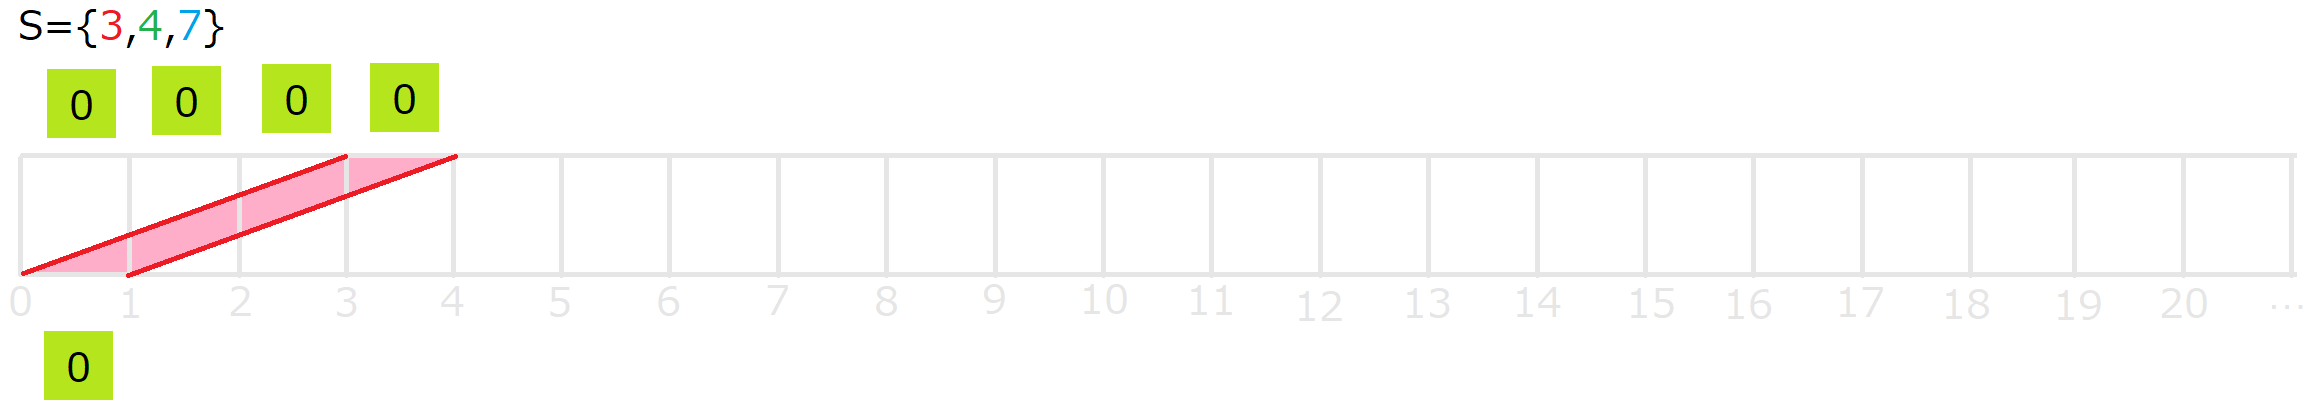
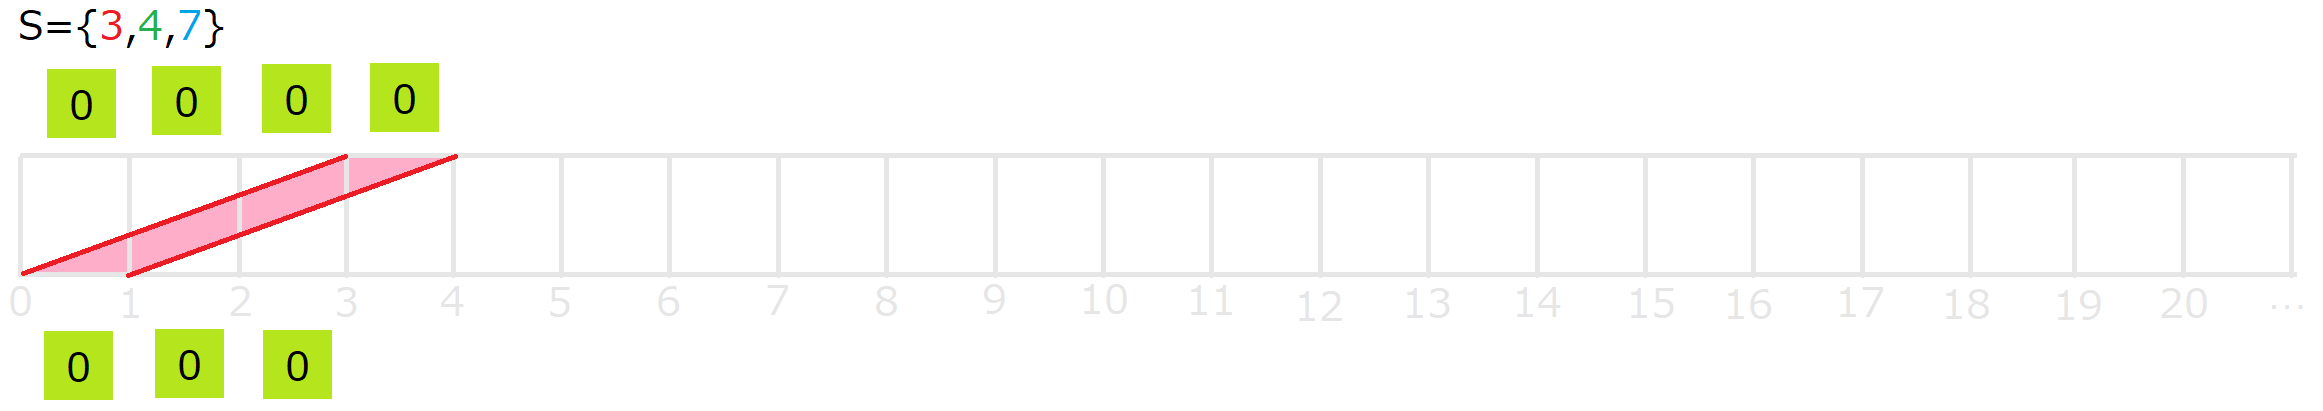
grid

Changed region(s): [[0.062, 0.7883, 0.155, 0.9927]]

diff --git a/me/ideas/drawing_mex_for_blog/s_a_b_c_image_gen.py b/me/ideas/drawing_mex_for_blog/s_a_b_c_image_gen.py
@@ -1,0 +1,357 @@
+import cv2
+import numpy as np
+# from datetime import datetime
+from kernel.math.grundy_sequence import GrundySequence
+
+
+def gen_s_a_b_c_image(a, b, c, len_Nz, zoom=1.0, suffix="", is_temporary=True):
+    """
+    Parameters
+    ----------
+    zoom : float
+        描画倍率
+    """
+
+    margin_left = 5
+    margin_right = 5
+    margin_top = 5
+    margin_bottom = 5
+
+    grid_width = 50
+    grid_height = 32
+    grid_columns = 21
+    grid_rows = 15
+    char_base_y = int(grid_height*0.9)
+    """一文字の幅の目安"""
+
+    grundy_sequence = GrundySequence.make(S={a, b, c}, len_N=len_Nz-1)
+    """グランディ数列"""
+
+    image_width = int(
+        (len_Nz * grid_width + margin_left + margin_right) * zoom)
+    image_height = int(grid_height*16*zoom)
+
+    # 画像データは数値の配列
+    monochrome_color = 240  # 0黒→255白
+    canvas = np.full((image_height, image_width, 3),
+                     monochrome_color, dtype=np.uint8)
+
+    font_color = (55, 55, 55)
+    color_red = (90, 90, 220)
+    color_green = (90, 220, 90)
+    color_blue = (220, 90, 90)
+    color_yellow_green = (153, 220, 192)
+    color_cyan = (220, 220, 192)
+    color_magenta = (220, 192, 220)
+    color_yellow = (192, 220, 220)
+    color_light_grey = (220, 220, 220)
+    """色"""
+
+    line_thickness = 1
+    """線の太さ"""
+
+    if a % 2 == 0:
+        eo_a = "E"
+    else:
+        eo_a = "o"
+
+    if b % 2 == 0:
+        eo_b = "E"
+    else:
+        eo_b = "o"
+
+    if c % 2 == 0:
+        eo_c = "E"
+    else:
+        eo_c = "o"
+
+    eo_code = f"{eo_a}{eo_b}{eo_c}"
+    """偶奇も付けたい。文字が潰れると見分けにくいので e の方を大文字にした"""
+
+    top_a_board = [-1] * len_Nz
+    top_b_board = [-1] * len_Nz
+    top_c_board = [-1] * len_Nz
+    """番地の上側に置いてある数"""
+
+    mate_lines = []
+    """mate線"""
+
+    # 駒の配置 と mate線 の算出
+    for top_n in range(0, len_Nz):
+        bottom_a = top_n-a
+        bottom_b = top_n-b
+        bottom_c = top_n-c
+        if 0 <= bottom_a:
+            top_a_board[top_n] = grundy_sequence.get_grundy_at(bottom_a)
+            mate_lines.append(("a", top_n, bottom_a))
+
+        if 0 <= bottom_b:
+            top_b_board[top_n] = grundy_sequence.get_grundy_at(bottom_b)
+            mate_lines.append(("b", top_n, bottom_b))
+
+        if 0 <= bottom_c:
+            top_c_board[top_n] = grundy_sequence.get_grundy_at(bottom_c)
+            mate_lines.append(("c", top_n, bottom_c))
+
+    def draw_grid():
+        """グリッドを描画"""
+
+        for i in range(0, grid_columns):
+            """垂直線"""
+
+            x = int((i*grid_width+margin_left)*zoom)
+            top_y = int((margin_top)*zoom)
+            bottom_y = int((grid_rows*grid_height+margin_top)*zoom)
+
+            cv2.line(canvas,
+                     (x, top_y),
+                     (x, bottom_y),
+                     color_light_grey,
+                     thickness=line_thickness)
+
+        for j in range(0, grid_rows):
+            """水平線"""
+
+            y = int((j*grid_height+margin_top)*zoom)
+            left_x = int((margin_left)*zoom)
+            right_x = int((grid_columns*grid_width+margin_left)*zoom)
+
+            cv2.line(canvas,
+                     (left_x, y),
+                     (right_x, y),
+                     color_light_grey,
+                     thickness=line_thickness)
+
+    def print_subtraction_set(y):
+        """サブトラクションセットを表示"""
+        cv2.putText(canvas,
+                    f"S = {{ {a}, {b}, {c} }} {eo_code} {suffix}",
+                    (int(5*zoom), int(y*zoom) + int(char_base_y*zoom)),  # x,y
+                    None,  # font
+                    1.0 * zoom,  # font_scale
+                    font_color,  # color
+                    0)  # line_type
+
+    def print_grundy_color_rectangle(x, y, grundy_number):
+        """グランディ数を色付きの四角で描画"""
+
+        if grundy_number == 0:
+            color_rectangle = color_yellow_green
+        elif grundy_number == 1:
+            color_rectangle = color_cyan
+        elif grundy_number == 2:
+            color_rectangle = color_magenta
+        elif grundy_number == 3:
+            color_rectangle = color_yellow
+        else:
+            raise ValueError(f"unexpected grundy number:{grundy_number}")
+        """グランディ色"""
+
+        dx = x + int(grid_width*zoom)
+        dy = y + int(grid_height*zoom)
+        cv2.rectangle(img=canvas,
+                      pt1=(x, y),  # left, top
+                      pt2=(dx, dy),  # right, bottom
+                      color=color_rectangle,  # color
+                      thickness=-1)  # fill: -1
+
+    def paint_row_of_zero_number(y):
+        """0 の行を描画"""
+
+        for i in range(0, len_Nz):
+            if top_a_board[i] == -1 and top_b_board[i] == -1 and top_c_board[i] == -1:
+                grundy_number = 0
+                sx = int((i*grid_width+margin_left)*zoom)
+                sy = int(y*zoom)
+
+                print_grundy_color_rectangle(
+                    x=sx,
+                    y=sy,
+                    grundy_number=grundy_number)
+                """グランディ数に対応づく色の四角"""
+
+                cv2.putText(canvas,
+                            f"0",
+                            (sx, sy + int(char_base_y*zoom)),  # x,y
+                            None,  # font
+                            1.0 * zoom,  # font_scale
+                            font_color,  # color
+                            0)  # line_type
+
+    def print_row_of_a_number(y):
+        """駒を描画"""
+        for i in range(0, len_Nz):
+            grundy_number = top_a_board[i]  # -1: None
+            if grundy_number != -1:
+                sx = int((i*grid_width+margin_left)*zoom)
+                sy = int(y*zoom)
+
+                print_grundy_color_rectangle(
+                    x=sx,
+                    y=sy,
+                    grundy_number=grundy_number)
+                """グランディ数に対応づく色の四角"""
+
+                cv2.putText(canvas,
+                            f"{grundy_number}",
+                            (sx, sy + int(char_base_y*zoom)),  # x,y
+                            None,  # font
+                            1.0 * zoom,  # font_scale
+                            color_red,  # color
+                            0)  # line_type
+
+    def print_row_of_b_number(y):
+        """駒を描画"""
+        for i in range(0, len_Nz):
+            grundy_number = top_b_board[i]  # -1: None
+            if grundy_number != -1:
+                sx = int((i*grid_width+margin_left)*zoom)
+                sy = int(y*zoom)
+
+                print_grundy_color_rectangle(
+                    x=sx,
+                    y=sy,
+                    grundy_number=grundy_number)
+                """グランディ数に対応づく色の四角"""
+
+                cv2.putText(canvas,
+                            f"{grundy_number}",
+                            (sx, sy + int(char_base_y*zoom)),  # x,y
+                            None,  # font
+                            1.0 * zoom,  # font_scale
+                            color_green,  # color
+                            0)  # line_type
+
+    def print_row_of_c_number(y):
+        """駒を描画"""
+        for i in range(0, len_Nz):
+            grundy_number = top_c_board[i]  # -1: None
+            if grundy_number != -1:
+                sx = int((i*grid_width+margin_left)*zoom)
+                sy = int(y*zoom)
+
+                print_grundy_color_rectangle(
+                    x=sx,
+                    y=sy,
+                    grundy_number=grundy_number)
+                """グランディ数に対応づく色の四角"""
+
+                cv2.putText(canvas,
+                            f"{grundy_number}",
+                            (sx, sy + int(char_base_y*zoom)),  # x,y
+                            None,  # font
+                            1.0 * zoom,  # font_scale
+                            color_blue,  # color
+                            0)  # line_type
+
+    def print_x_axis(y):
+        """x軸を描画"""
+        for i in range(0, len_Nz):
+            cv2.putText(canvas,
+                        f"{i}",
+                        (int((i*grid_width+margin_left)*zoom), int(y*zoom)),  # x,y
+                        None,  # font
+                        1.0 * zoom,  # font_scale
+                        font_color,  # color
+                        0)  # line_type
+
+    def print_grundy_sequence(y):
+        """グランディ数列を図形的に描画"""
+
+        for i in range(0, len_Nz):
+            sx = int((i*grid_width+margin_left)*zoom)
+
+            grundy_number = grundy_sequence.get_grundy_at(i)
+
+            print_grundy_color_rectangle(
+                x=sx,
+                y=int((y-grid_height)*zoom),
+                grundy_number=grundy_number)
+            """グランディ数に対応づく色の四角"""
+
+            if grundy_number == 0:
+                label = "x"  # TODO ×に色付けたい。両端の a,b,c （c優先）が同じとき、その色。それ以外は黒
+                vertical_repeat = 1
+
+            else:
+                label = "."
+                vertical_repeat = grundy_number
+
+            for j in range(0, vertical_repeat):  # 文字を上にずらしながら重ねていく
+                cv2.putText(canvas,
+                            label,
+                            (sx,
+                             int((y-(grid_height/4)*j)*zoom)),  # x,y
+                            None,  # font
+                            1.0 * zoom,  # font_scale
+                            font_color,  # color
+                            0)  # line_type
+
+    def print_mate_lins(src_y, dst_y):
+        """mate線を描画"""
+        for mate_line in mate_lines:
+            # 線、描画する画像を指定、座標1点目、2点目、色、線の太さ
+            s_element = mate_line[0]
+            if s_element == "a":
+                line_color = color_red
+            elif s_element == "b":
+                line_color = color_green
+            elif s_element == "c":
+                line_color = color_blue
+
+            src_i = mate_line[1]
+            src_x = int((grid_width*src_i+margin_left)*zoom)
+
+            dst_i = mate_line[2]
+            dst_x = int((grid_width*dst_i+margin_left)*zoom)
+
+            cv2.line(canvas, (src_x, int(src_y*zoom)),
+                     (dst_x, int(dst_y*zoom)), line_color, thickness=line_thickness)
+
+    draw_grid()
+    """グリッドを描画"""
+
+    y = 0
+    print_subtraction_set(y=y)
+    y += grid_height
+    """サブトラクションセットを表示"""
+
+    print_row_of_c_number(y=y)
+    y += grid_height
+    """駒を描画"""
+
+    print_row_of_b_number(y=y)
+    y += grid_height
+    """駒を描画"""
+
+    print_row_of_a_number(y=y)
+    """駒を描画"""
+
+    paint_row_of_zero_number(y=y)
+    y += grid_height
+    """重ねて 0 の行を描画"""
+
+    y += 20  # 180, 450
+    print_mate_lins(src_y=y, dst_y=y+270)
+    """mate線を描画"""
+
+    y += 310  # 470
+    print_grundy_sequence(y=y)
+
+    y += grid_height  # 530
+    print_x_axis(y=y)
+    """x軸を描画"""
+
+    if suffix != "":
+        suffix_text = f"_{suffix}"
+    else:
+        suffix_text = ""
+
+    if is_temporary:
+        tmp_text = "_tmp"
+    else:
+        tmp_text = ""
+
+    # date = datetime.now().strftime("%Y%m%d_%H%M%S")
+    cv2.imwrite(
+        f"./output_tmp/s_{a:02}_{b:02}_{c:02}_{eo_code}{suffix_text}{tmp_text}.png", canvas)

diff --git a/me/ideas/drawing_mex_for_blog/main.py b/me/ideas/drawing_mex_for_blog/main.py
@@ -1,0 +1,24 @@
+"""
+pip install opencv-python
+pip install Pillow
+
+cd me
+
+python.exe -m ideas.drawing_mex_for_blog.main
+"""
+from ideas.drawing_mex_for_blog.s_a_b_c_image_gen import gen_s_a_b_c_image
+
+zoom = 0.25
+"""倍率。1倍はかなりでかい"""
+
+len_Nz = 20
+"""ブログ向けなので、大きな画像は作れない"""
+
+
+def main():
+    gen_s_a_b_c_image(a=3, b=4, c=7, len_Nz=len_Nz,
+                      zoom=zoom, is_temporary=False)
+
+
+if __name__ == "__main__":
+    main()

diff --git a/me/ideas/drawing_mex/main.py b/me/ideas/drawing_mex/main.py
@@ -6,7 +6,6 @@ cd me
 
 python.exe -m ideas.drawing_mex.main
 """
-import random
 from ideas.drawing_mex.s_a_b_c_image_gen import gen_s_a_b_c_image
 
 zoom = 0.25
